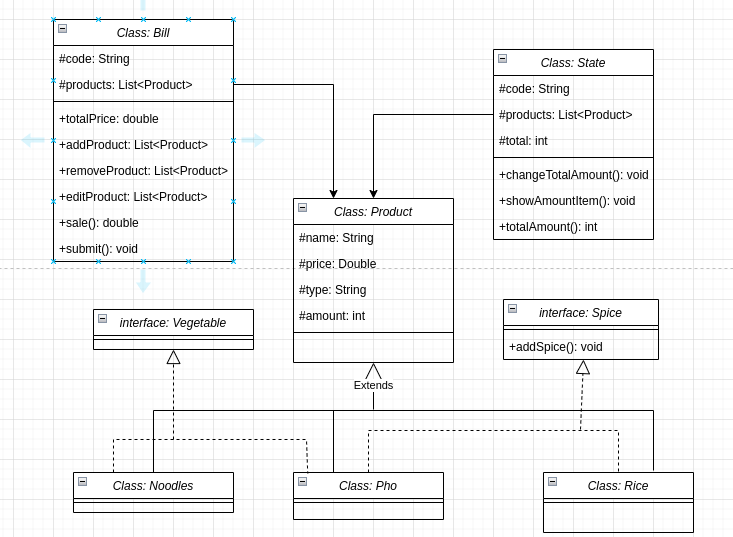
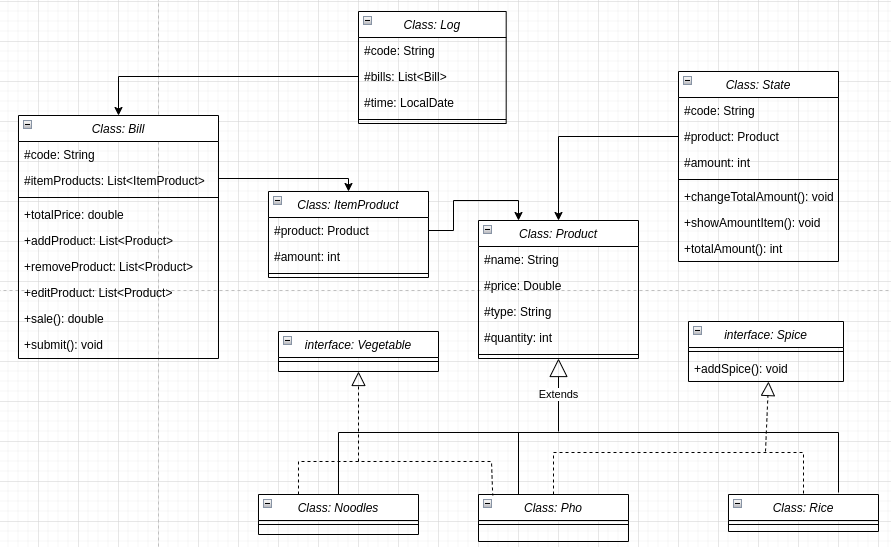
update quantity product

diff --git a/src/state/Bill.java b/src/state/Bill.java
@@ -4,42 +4,74 @@ import java.util.ArrayList;
 import java.util.List;
 
 public class Bill {
-    String code;
-    List<Product> products = new ArrayList<>();
+    private String code;
+    private List<ItemProduct> itemProducts;
 
-    public Bill(String code, List<Product> products) {
+    public Bill(String code, List<ItemProduct> itemProducts) {
         this.code = code;
-        this.products = products;
+        this.itemProducts = itemProducts;
+    }
+
+    public List<ItemProduct> getItemProducts() {
+        return itemProducts;
+    }
+
+    public void setItemProducts(List<ItemProduct> itemProducts) {
+        this.itemProducts = itemProducts;
+    }
+
+    public String getCode() {
+        return code;
+    }
+
+    public void setCode(String code) {
+        this.code = code;
+    }
+
+
+    @Override
+    public String toString() {
+        return "Bill{" +
+                "code='" + code + '\'' +
+                ", itemProducts=" + itemProducts +
+                '}';
     }
 
     private double totalPrice() {
         double totalP = 0;
-        for (Product product : products) {
-            totalP = product.amount * product.price;
+        List<ItemProduct> itemProductList = getItemProducts();
+        for (ItemProduct itemProduct : itemProductList) {
+            totalP += itemProduct.getProduct().getPrice() * itemProduct.getAmount();
         }
         return totalP;
     }
 
-    private void addProduct(List<Product> addProducts) {
-        for (Product product : addProducts) {
-            products.add(product);
-        }
+    public void addProduct(Product product, int quantity) {
+//        // TODO: 23/05/2022
+        ItemProduct itemProduct = new ItemProduct(product,quantity);
+        List<ItemProduct> itemProductList = getItemProducts();
+        itemProductList.add(itemProduct);
+        setItemProducts(itemProductList);
     }
 
     private void removeProduct(Product product) {
-        for (int i = 0; i < products.size(); i++) {
-            if (products.get(i).equals(product)) {
-                products.remove(i);
-            }
-        }
+        //// TODO: 23/05/2022
+//        List<Product> products1 = getProducts();
+//        for (int i = 0; i < products1.size(); i++) {
+//            if (products1.get(i).equals(product)) {
+//                products.remove(i);
+//            }
+//        }
     }
 
     private void editProduct(Product product) {
-        for (Product product1 : products) {
-            if (product1.equals(product)) {
-                product1.amount = product.amount;
-            }
-        }
+        /// TODO: 23/05/2022
+//        List<Product> products1 = getProducts();
+//        for (Product product1 : products1) {
+//            if (product1.equals(product)) {
+//                product1.amount = product.amount;
+//            }
+//        }
     }
 
     public double sale() {
@@ -47,8 +79,8 @@ public class Bill {
     }
 
     public void submit(State state) {
-        state.changeTotalAmount(state.products, products);
+        state.changeTotalAmount(state.getProducts(), getItemProducts());
         System.out.println("Gia tien:" + totalPrice());
-        System.out.println("Tong gia:" + totalPrice() * (1 - sale()));
+        System.out.println("Thanh tien:" + totalPrice() * (1 - sale()));
     }
 }

diff --git a/src/state/State.java b/src/state/State.java
@@ -3,39 +3,73 @@ package state;
 import java.util.List;
 
 public class State {
-    String code;
-    List<Product> products;
-    int totalAmount;
+    private String code;
+    private List<Product> products;
+    private int totalAmount;
 
-    public State(String code, List<Product> products, int totalAmount) {
+    public State(String code, List<Product> products) {
         this.code = code;
         this.products = products;
+        this.totalAmount = totalAmount(products);
+    }
+
+    public int getTotalAmount() {
+        return totalAmount;
+    }
+
+    public void setTotalAmount(int totalAmount) {
         this.totalAmount = totalAmount;
     }
 
-    void changeTotalAmount(List<Product> products, List<Product> productsExport) {
-        for (Product product1 : productsExport) {
+    public String getCode() {
+        return code;
+    }
+
+    public void setCode(String code) {
+        this.code = code;
+    }
+
+    public List<Product> getProducts() {
+        return products;
+    }
+
+    public void setProducts(List<Product> products) {
+        this.products = products;
+    }
+
+    void changeTotalAmount(List<Product> products, List<ItemProduct> productsExport) {
+        for (ItemProduct itemProduct : productsExport) {
             for (Product product : products) {
-                if (product.name.equalsIgnoreCase(product1.name)) {
-                    product.amount = product.amount - product1.amount;
+                if (product.getName().equalsIgnoreCase(itemProduct.getProduct().getName())) {
+                    product.setAmount(product.getAmount() - itemProduct.getAmount());
                 }
             }
         }
-        totalAmount = totalAmount(products);
+        setTotalAmount(totalAmount(products));
         showAmountItem(products);
-        System.out.println("so luong trong kho con: " + totalAmount);
+        System.out.println("so luong trong kho con: " + getTotalAmount());
     }
 
     int totalAmount(List<Product> productsCount) {
+        int amount = 0;
         for (Product product : productsCount) {
-            totalAmount += product.amount;
+            amount += product.getAmount();
         }
-        return totalAmount;
+        return amount;
     }
 
     void showAmountItem(List<Product> productsCount) {
         for (Product product : productsCount) {
-            System.out.println(product.name + " " + product.amount);
+            System.out.println(product.getName() + " " + product.getAmount());
         }
     }
+
+    void editAmountProduct(List<Product> productList, String nameProduct, int amount) {
+        for (int i = 0; i < productList.size(); i++) {
+            if(productList.get(i).getName().equalsIgnoreCase(nameProduct)){
+                productList.get(i).setAmount(amount);
+            }
+        }
+    }
+
 }

diff --git a/src/state/Main.java b/src/state/Main.java
@@ -1,36 +1,42 @@
 package state;
 
+import java.time.LocalDateTime;
 import java.util.ArrayList;
 import java.util.List;
 
 public class Main {
     public static void main(String[] args) {
 
-        Product productS1 = new Pho("Pho",25000,200,"Bo");
-        Product productS2 = new Pho("Pho",26000,100,"Ga");
-        Product productS3 = new Pho("Pho",27000,400,"heo");
-        Product productS4 = new Rice("Com tam",30000,500);
+        Product productS1 = new Pho("Pho bo", 25000, 200);
+        Product productS2 = new Pho("Pho ga", 26000, 100);
+        Product productS3 = new Pho("Pho gio", 27000, 400);
+        Product productS4 = new Rice("Com tam", 30000, 500);
         List<Product> productsS = new ArrayList<>();
         productsS.add(productS1);
         productsS.add(productS2);
         productsS.add(productS3);
         productsS.add(productS4);
-        State state = new State("state",productsS,1200);
+        State state = new State("state", productsS);
+        state.editAmountProduct(productsS, "Pho", 900);
 
-        Product product1 = new Pho("Pho",25000,2,"Bo");
-        Product product2 = new Pho("Pho",26000,1,"Ga");
-        Product product3 = new Pho("Pho",27000,4,"heo");
-        Product product4 = new Rice("Com tam",30000,5);
-        Product product5 = new Rice("Com tam",30000,5);
-        List<Product> products = new ArrayList<>();
-        products.add(product1);
-        products.add(product2);
-        products.add(product3);
-        products.add(product4);
-        products.add(product5);
-        Bill bill = new Bill("bill",products);
+        Bill bill = new Bill("bill", new ArrayList<>());
+        bill.addProduct(productS1, 2);
+        bill.addProduct(productS2, 3);
+        bill.addProduct(productS3, 4);
+        bill.addProduct(productS4, 5);
 
         bill.submit(state);
+        List<Bill> bills = new ArrayList<>();
+        bills.add(bill);
+        Log log = new Log("bill1", bills, LocalDateTime.now());
+        System.out.println(log);
 
+        productS1.setPrice(2000);
+
+        List<Bill> bills1 = new ArrayList<>();
+        bills1.add(bill);
+
+        Log log1 = new Log("bill2", bills1, LocalDateTime.now());
+        System.out.println(log1);
     }
 }

diff --git a/src/state/Product.java b/src/state/Product.java
@@ -1,13 +1,46 @@
 package state;
 
 public abstract class Product {
-    String name;
-    double price;
-    int amount;
+    private String name;
+    private double price;
+    private int amount;
 
     public Product(String name, double price, int amount) {
         this.name = name;
         this.price = price;
+        this.amount = amount;
+    }
+
+    @Override
+    public String toString() {
+        return "Product{" +
+                "name='" + name + '\'' +
+                ", price=" + price +
+                ", amount=" + amount +
+                '}';
+    }
+
+    public String getName() {
+        return name;
+    }
+
+    public void setName(String name) {
+        this.name = name;
+    }
+
+    public double getPrice() {
+        return price;
+    }
+
+    public void setPrice(double price) {
+        this.price = price;
+    }
+
+    public int getAmount() {
+        return amount;
+    }
+
+    public void setAmount(int amount) {
         this.amount = amount;
     }
 }

diff --git a/src/state/ItemProduct.java b/src/state/ItemProduct.java
@@ -1,0 +1,32 @@
+package state;
+
+public class ItemProduct {
+    private Product product;
+    private int amount;
+
+    public ItemProduct(Product product, int amount) {
+        this.product = product;
+        this.amount = amount;
+    }
+
+    public Product getProduct() {
+        return product;
+    }
+
+    public void setProduct(Product product) {
+        this.product = product;
+    }
+
+    public int getAmount() {
+        return amount;
+    }
+
+    public void setAmount(int amount) {
+        this.amount = amount;
+    }
+
+    @Override
+    public String toString() {
+        return "ItemProduct{" + "product=" + product + ", amount=" + amount + '}';
+    }
+}

diff --git a/src/state/Log.java b/src/state/Log.java
@@ -1,0 +1,26 @@
+package state;
+
+import java.time.LocalDateTime;
+import java.time.LocalTime;
+import java.util.List;
+
+public class Log {
+    String code;
+    List<Bill> bills;
+    LocalDateTime time;
+
+    public Log(String code, List<Bill> bills, LocalDateTime time) {
+        this.code = code;
+        this.bills = bills;
+        this.time = time;
+    }
+
+    @Override
+    public String toString() {
+        return "Log{" +
+                "code='" + code + '\'' +
+                ", bills=" + bills +
+                ", time=" + time +
+                '}';
+    }
+}

diff --git a/src/state/Pho.java b/src/state/Pho.java
@@ -1,11 +1,9 @@
 package state;
 
 public class Pho extends Product implements Spice,Vegetable{
-    String type;
 
-    public Pho(String name, double money, int amount, String type) {
+    public Pho(String name, double money, int amount) {
         super(name, money, amount);
-        this.type = type;
     }
 
     @Override
